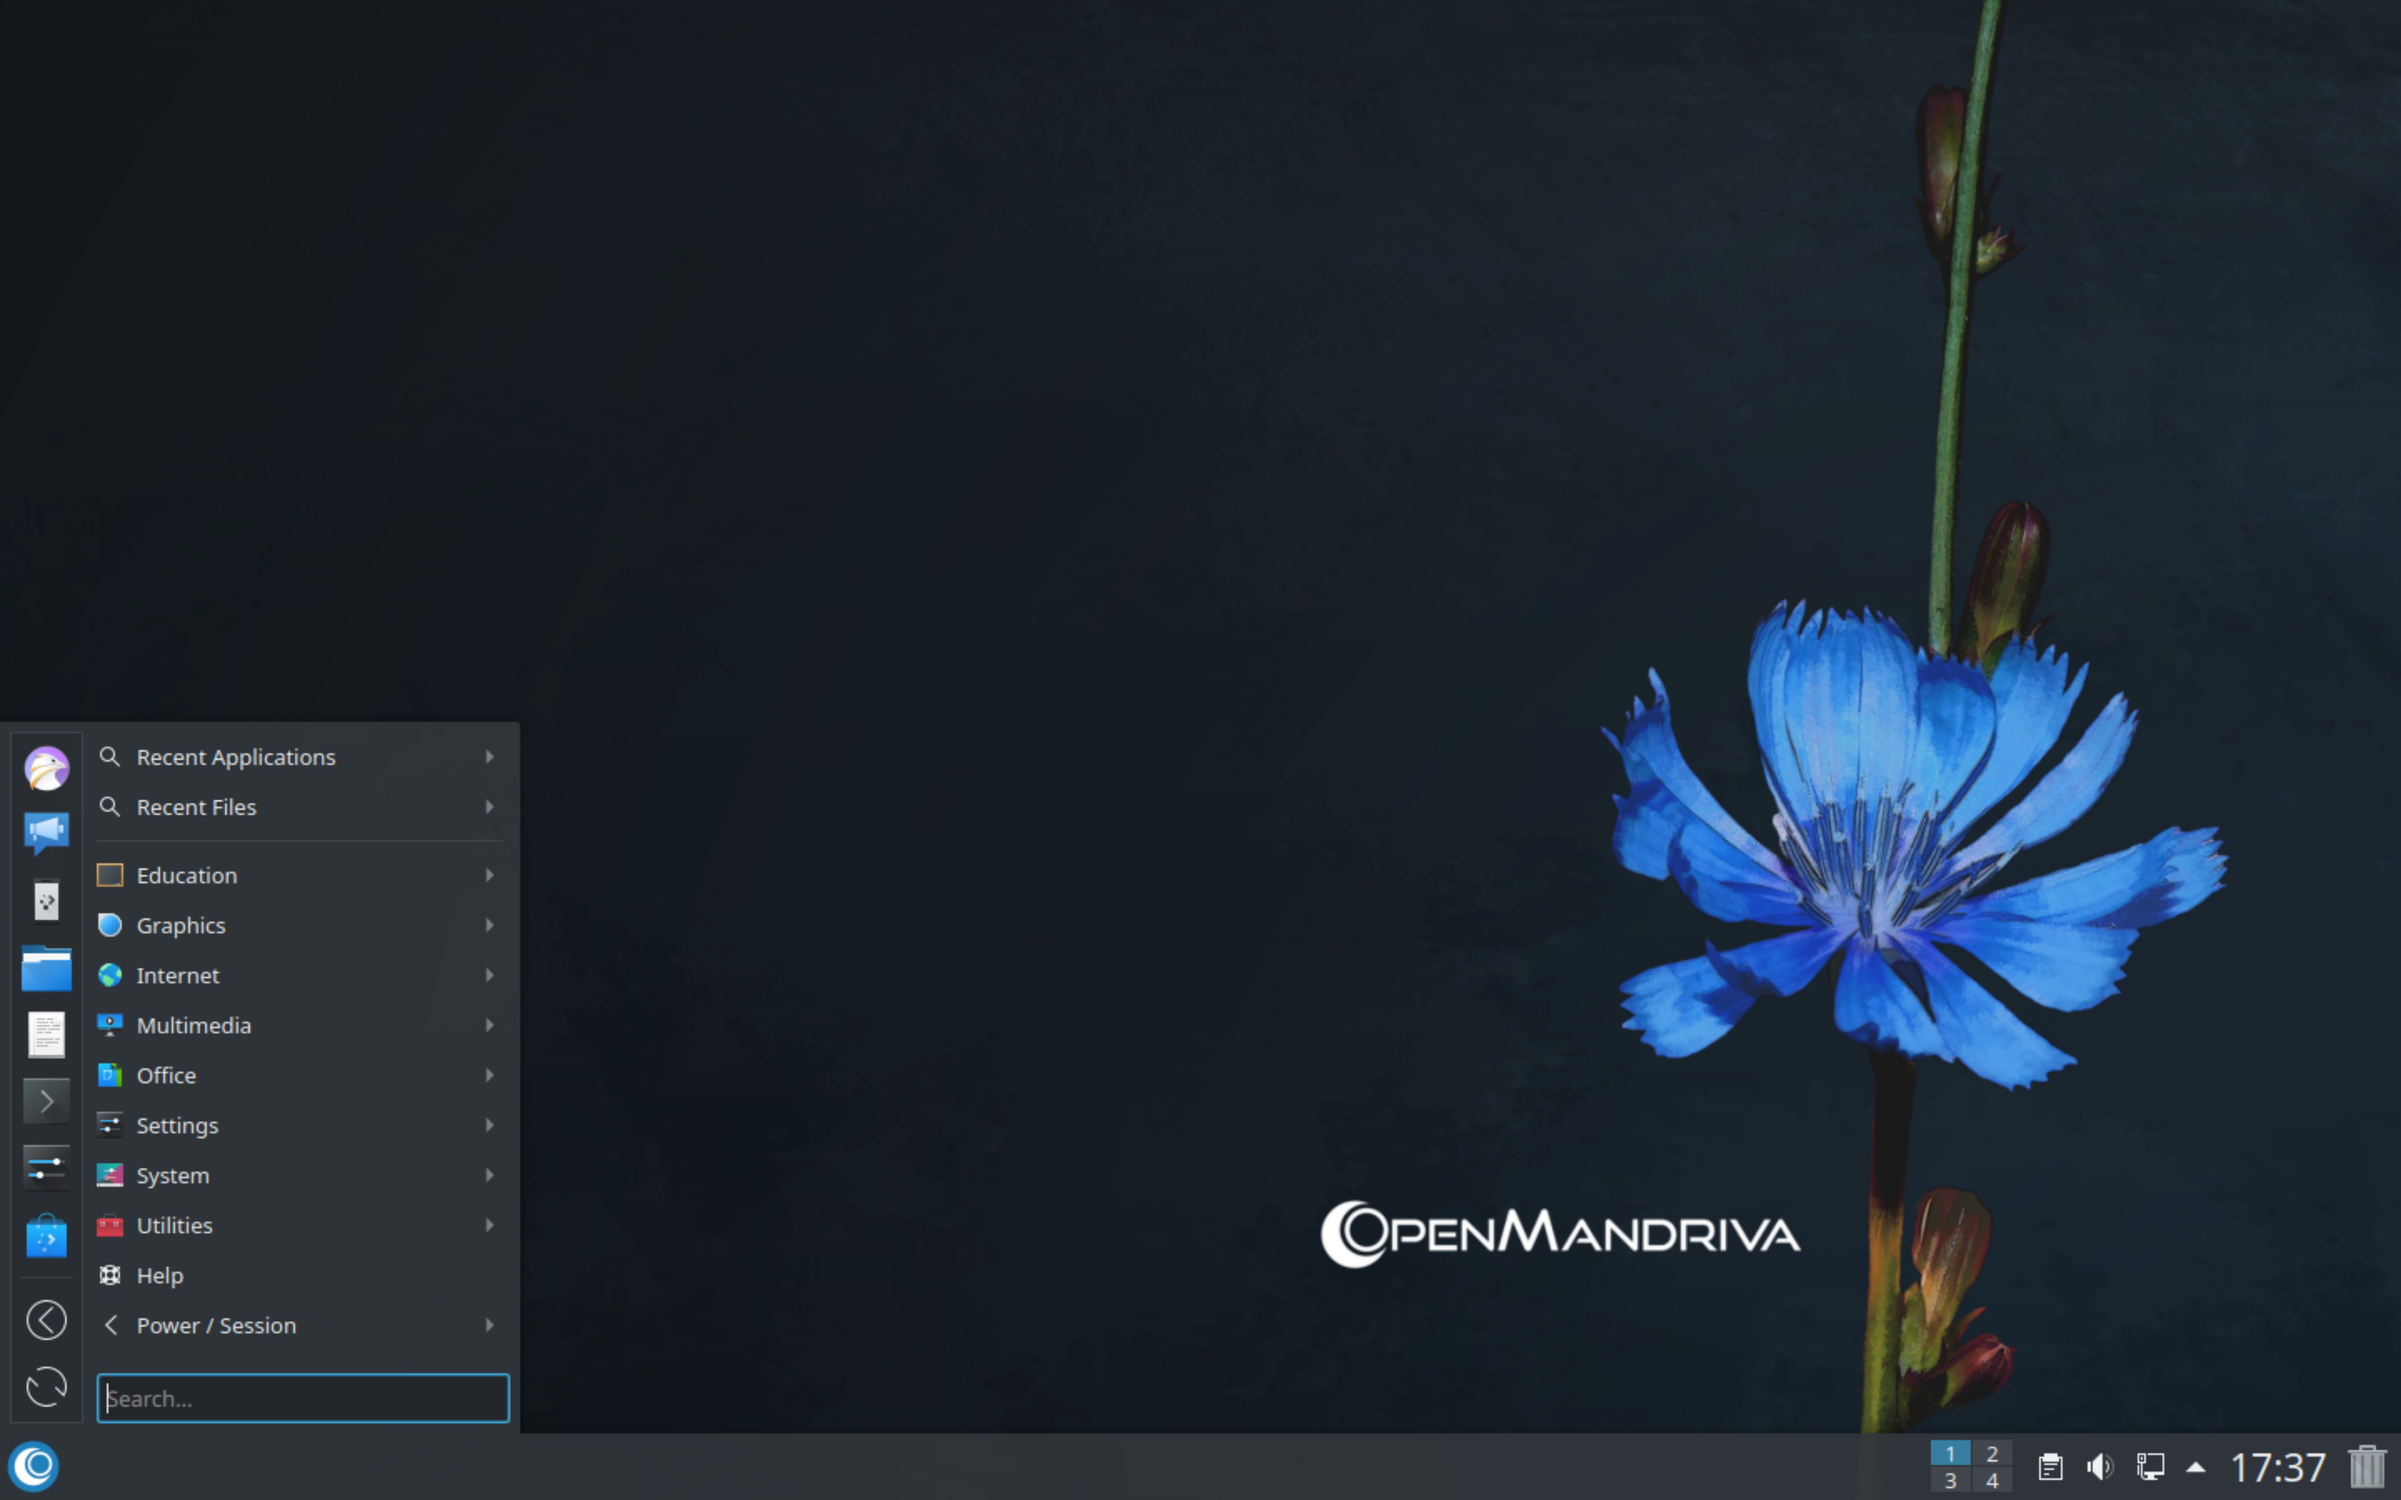
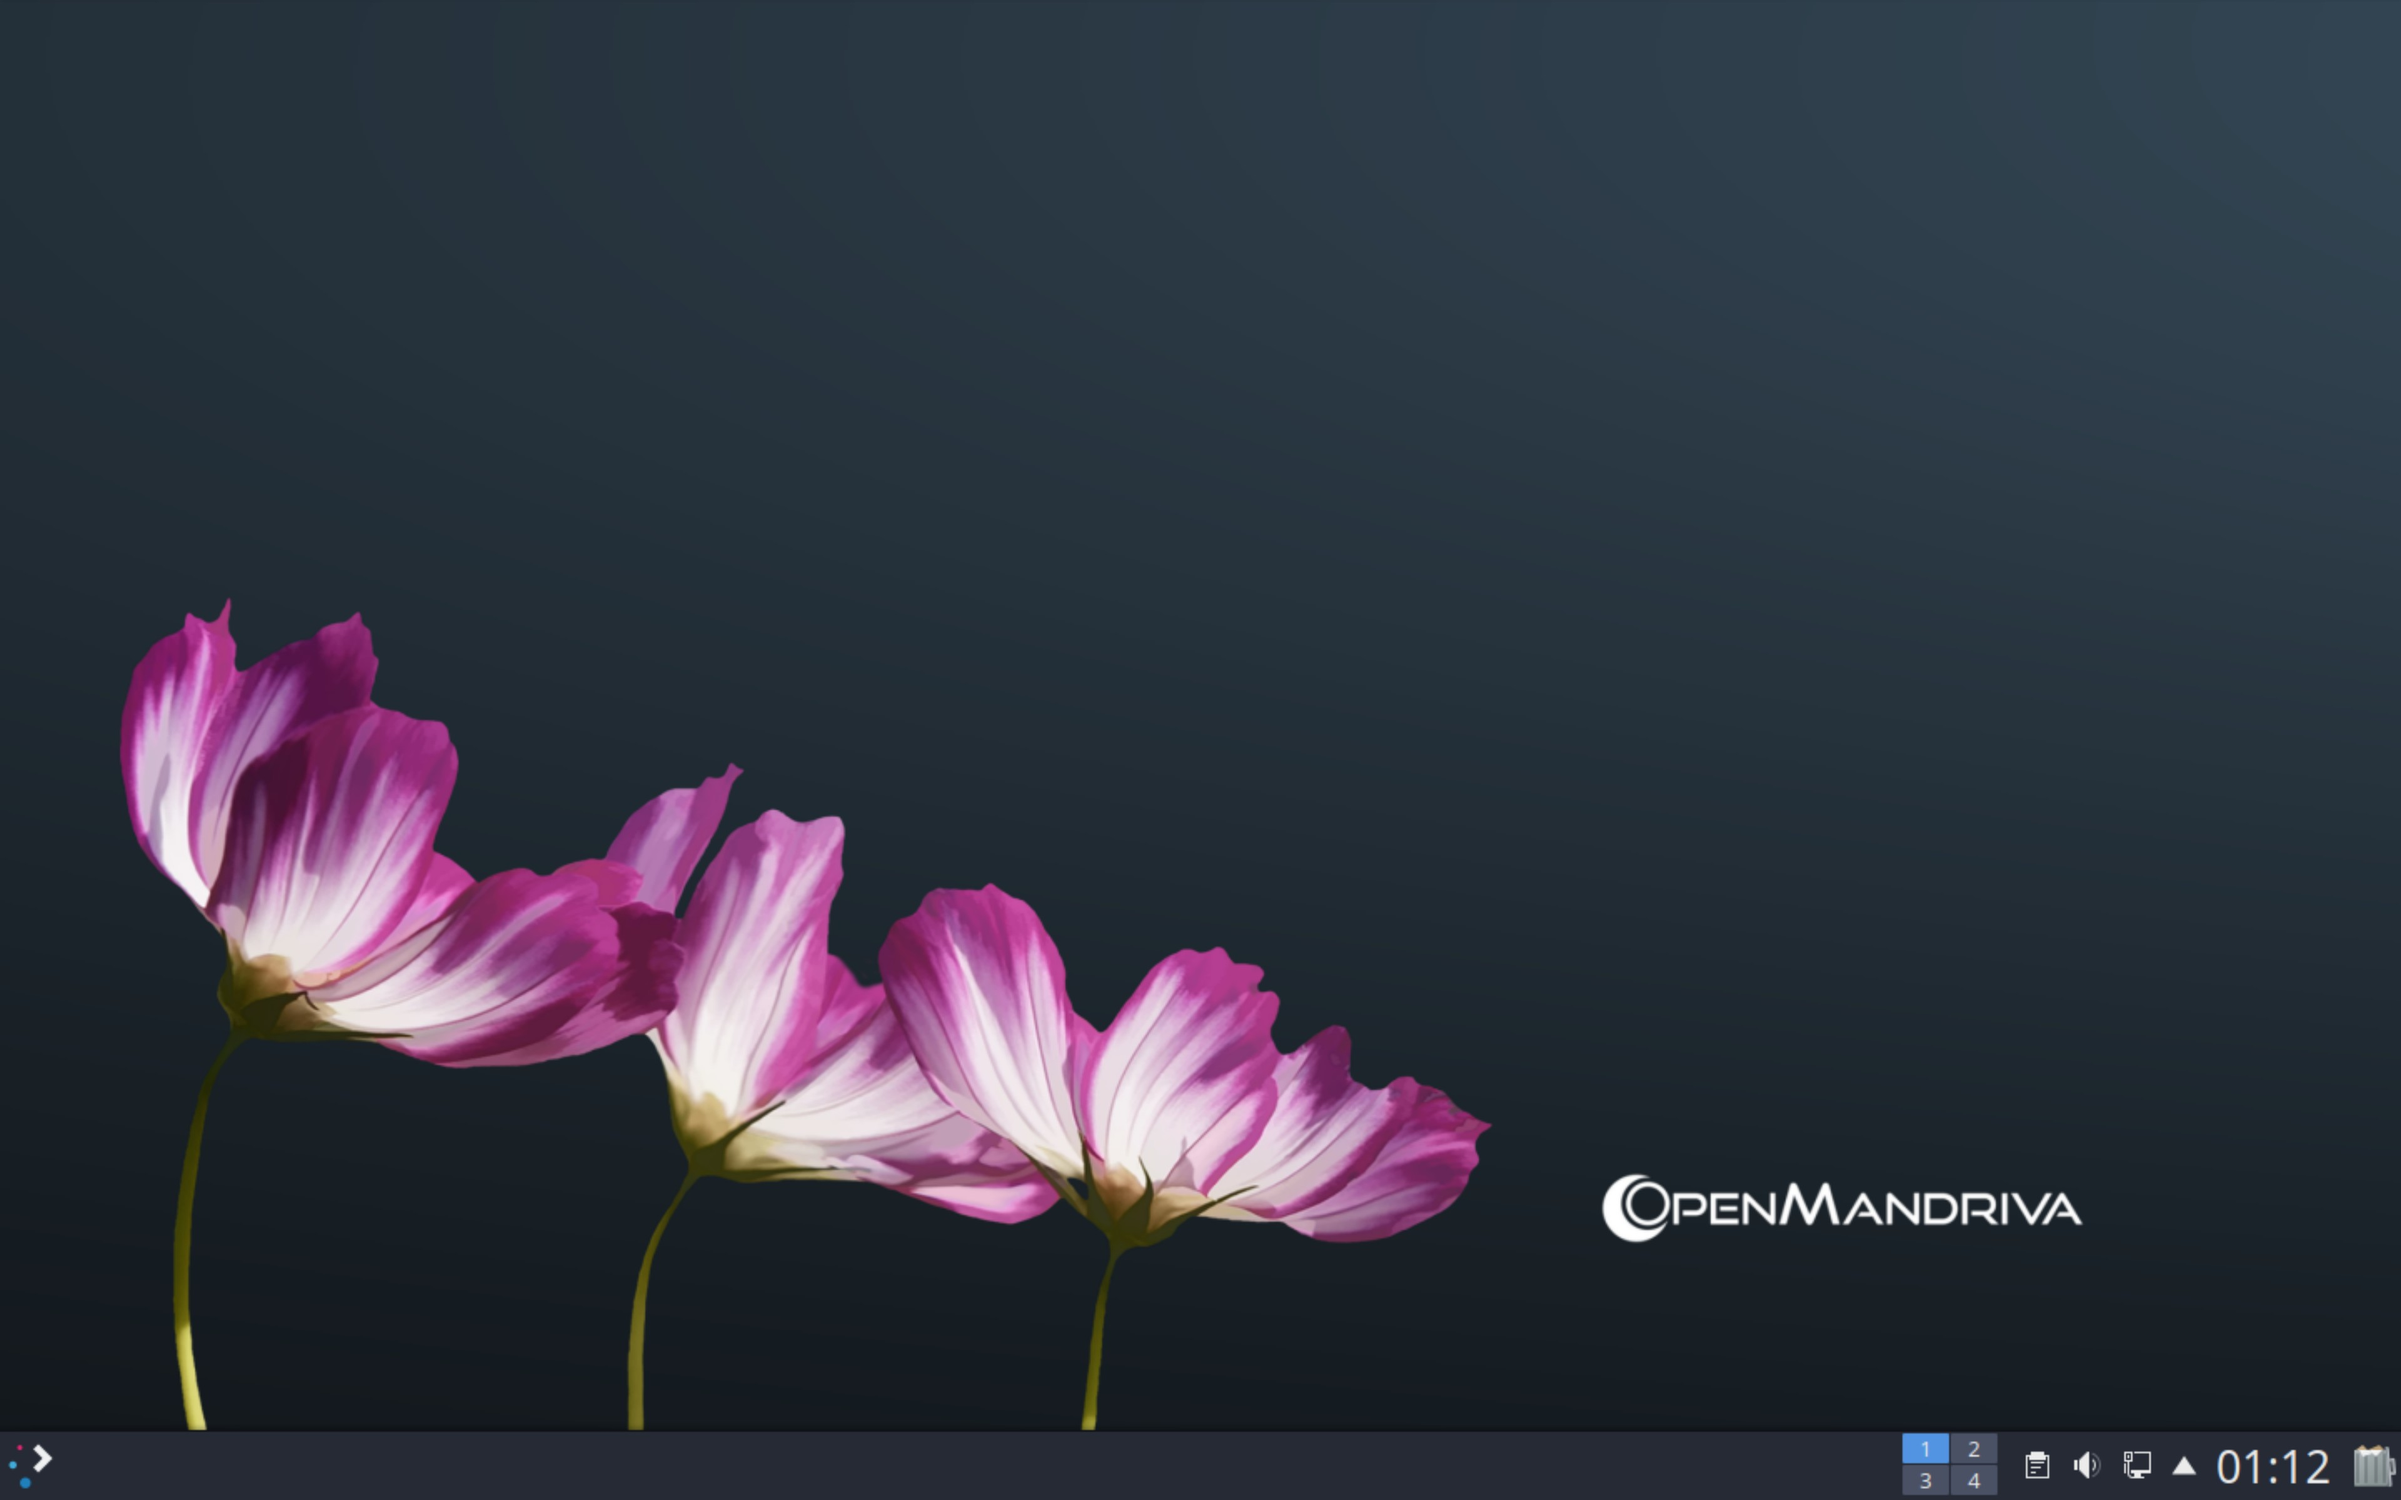
agg cooker branch

diff --git a/desktops/Plasma/org.openmandriva5.desktop/contents/splash/Splash.qml b/desktops/Plasma/org.openmandriva5.desktop/contents/splash/Splash.qml
@@ -22,7 +22,7 @@ import QtQuick 2.1
 
 Image {
     id: root
-    source: "/usr/share/wallpapers/OpenMandriva/contents/images/OpenMandriva-splash.png"
+    source: "/usr/share/mdk/backgrounds/OpenMandriva-splash.png"
     fillMode: Image.PreserveAspectCrop
 
     property int stage

diff --git a/desktops/Plasma/org.openmandriva5.desktop/contents/layouts/org.kde.plasma.desktop-layout.js b/desktops/Plasma/org.openmandriva5.desktop/contents/layouts/org.kde.plasma.desktop-layout.js
@@ -1,0 +1,6 @@
+loadTemplate("org.openmandriva.plasma.desktop.defaultPanel")
+
+var desktopsArray = desktopsForActivity(currentActivity());
+for( var j = 0; j < desktopsArray.length; j++) {
+    desktopsArray[j].wallpaperPlugin = 'org.kde.image';
+}
